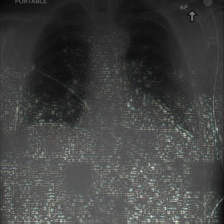
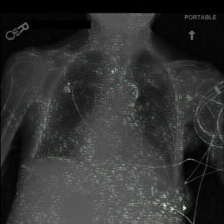
Add CW images

diff --git a/README.md b/README.md
@@ -6,15 +6,15 @@ This repository contains the code used for all experiments in the paper Attack-a
 
 These images are further examples to those shown in Figure 3. They are random samples from the MIMIC-CXR dataset, their PGD peturbation and the SHAP values of our Densenet121 classification model have been overlayed ontop of each image.
 
-| Normal Sample                  | PGD Perturbed Sample          |
-|--------------------------------|-------------------------------|
-| ![](images/0-norm-overlay.jpg) | ![](images/0-adv-overlay.jpg) |
-| ![](images/1-norm-overlay.jpg) | ![](images/1-adv-overlay.jpg) |
-| ![](images/2-norm-overlay.jpg) | ![](images/2-adv-overlay.jpg) |
-| ![](images/3-norm-overlay.jpg) | ![](images/3-adv-overlay.jpg) |
-| ![](images/4-norm-overlay.jpg) | ![](images/4-adv-overlay.jpg) |
-| ![](images/5-norm-overlay.jpg) | ![](images/5-adv-overlay.jpg) |
-| ![](images/6-norm-overlay.jpg) | ![](images/6-adv-overlay.jpg) |
-| ![](images/7-norm-overlay.jpg) | ![](images/7-adv-overlay.jpg) |
-| ![](images/8-norm-overlay.jpg) | ![](images/8-adv-overlay.jpg) |
-| ![](images/9-norm-overlay.jpg) | ![](images/9-adv-overlay.jpg) |
+| Normal Sample                  | PGD Perturbed Sample          | C&W Perturbed samples        |
+|--------------------------------|-------------------------------| -----------------------------|
+| ![](images/0-norm-overlay.jpg) | ![](images/0-adv-overlay.jpg) | ![](images/0-cw-overlay.jpg) |
+| ![](images/1-norm-overlay.jpg) | ![](images/1-adv-overlay.jpg) | ![](images/1-cw-overlay.jpg) |
+| ![](images/2-norm-overlay.jpg) | ![](images/2-adv-overlay.jpg) | ![](images/2-cw-overlay.jpg) |
+| ![](images/3-norm-overlay.jpg) | ![](images/3-adv-overlay.jpg) | ![](images/3-cw-overlay.jpg) |
+| ![](images/4-norm-overlay.jpg) | ![](images/4-adv-overlay.jpg) | ![](images/4-cw-overlay.jpg) |
+| ![](images/5-norm-overlay.jpg) | ![](images/5-adv-overlay.jpg) | ![](images/5-cw-overlay.jpg) |
+| ![](images/6-norm-overlay.jpg) | ![](images/6-adv-overlay.jpg) | ![](images/6-cw-overlay.jpg) |
+| ![](images/7-norm-overlay.jpg) | ![](images/7-adv-overlay.jpg) | ![](images/7-cw-overlay.jpg) |
+| ![](images/8-norm-overlay.jpg) | ![](images/8-adv-overlay.jpg) | ![](images/8-cw-overlay.jpg) |
+| ![](images/9-norm-overlay.jpg) | ![](images/9-adv-overlay.jpg) | ![](images/9-cw-overlay.jpg) |
